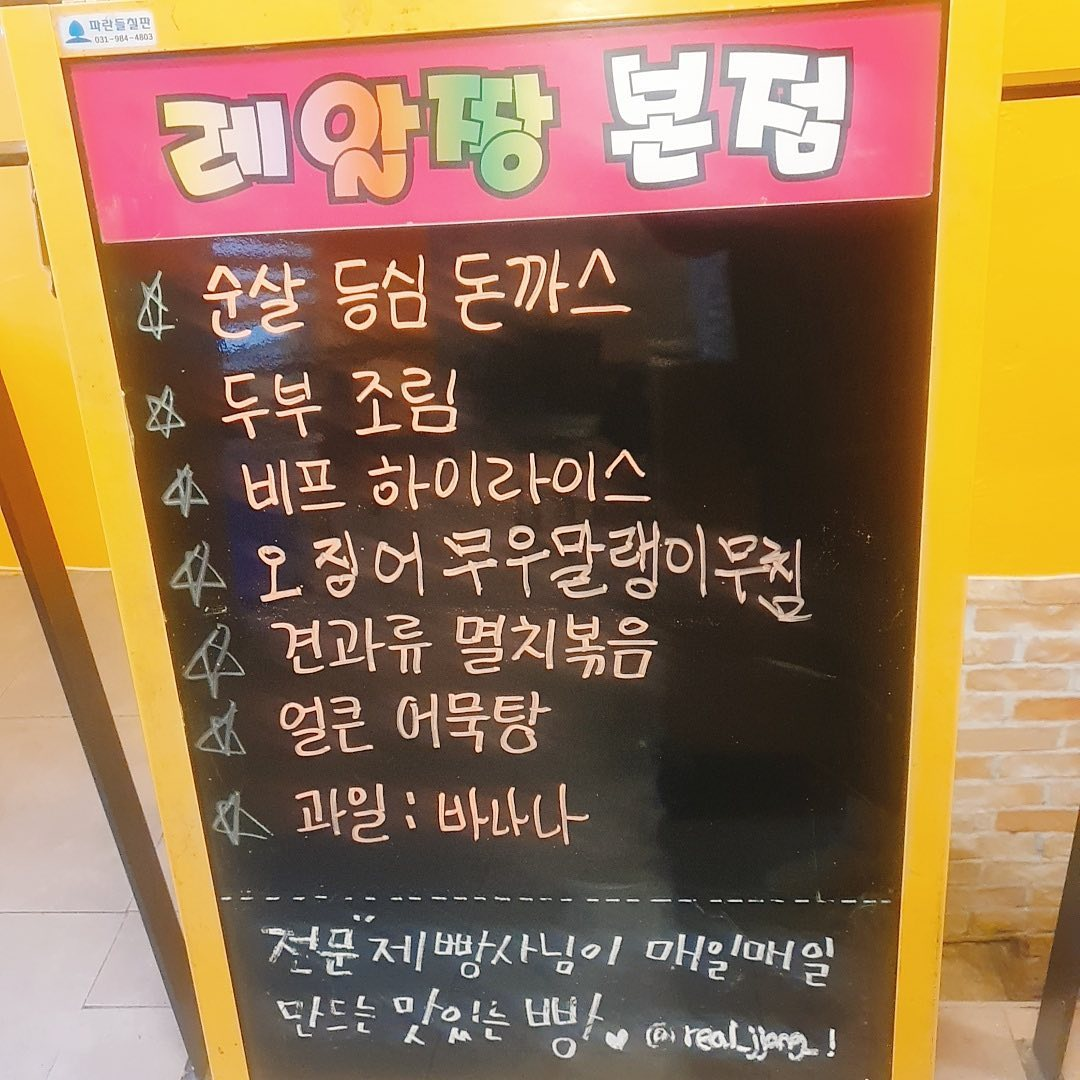
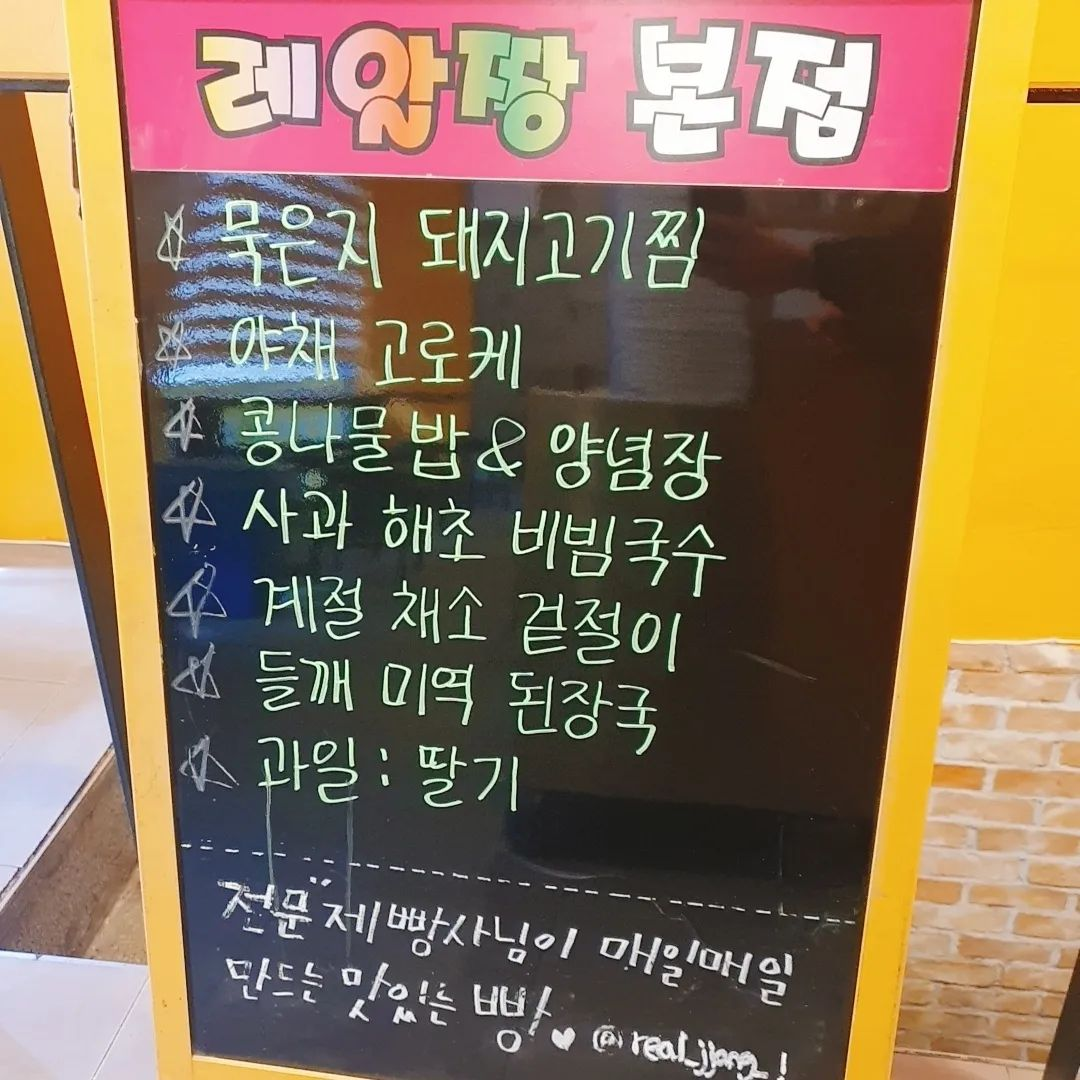
auto push

diff --git a/server/real_1_todaymenu.html b/server/real_1_todaymenu.html
@@ -1,1 +1,1 @@
-<h1 class="_aacl _aaco _aacu _aacx _aad7 _aade">3월&nbsp;13일 월요일 레알짱 본점 저녁메뉴입니다. <br><br>- 순살 등심 돈까스❤<br>- 두부조림👍<br>- 비프 하이라이스<br>- 오징어 무말랭이무침<br>- 견과류 멸치볶음<br>- 국 : 얼큰 어묵탕🍲<br>- 과일 : 바나나🍌<br>- 갓 구운 베이커리 입니다. 🥖🥯🍞<br><br>^^👍 </h1>
+<h1 class="_aacl _aaco _aacu _aacx _aad7 _aade">3월&nbsp;14일 화요일 레알짱 본점 점심메뉴입니다. <br><br>- 묵은지 돼지고기찜 🐖 <br>- 야채 고로케 ❤<br>- 콩나물밥&amp;양념장👍<br>- 사과 해초 비빔국수<br>- 계절 채소 겉절이<br>- 국 : 들깨 미역 된장국<br>- 과일 : 딸기<br>- 갓 구운 베이커리 입니다. 🥖🥯🍞<br><br>^^👍 </h1>

diff --git a/server/smarttodaymenu.html b/server/smarttodaymenu.html
@@ -1,1 +1,1 @@
-<h1 class="_aacl _aaco _aacu _aacx _aad7 _aade">23. 03.13 월 OPEN-1556일차 저녁입니다.<br><br></h1>
+<h1 class="_aacl _aaco _aacu _aacx _aad7 _aade">23. 03.14 화 OPEN-1557일차 점심입니다.<br><br></h1>

diff --git a/server/megatodaymenu.html b/server/megatodaymenu.html
@@ -1,1 +1,1 @@
-<h1 class="_aacl _aaco _aacu _aacx _aad7 _aade">금일 석식 메뉴입니다</h1>
+<h1 class="_aacl _aaco _aacu _aacx _aad7 _aade">메가점 점심</h1>
